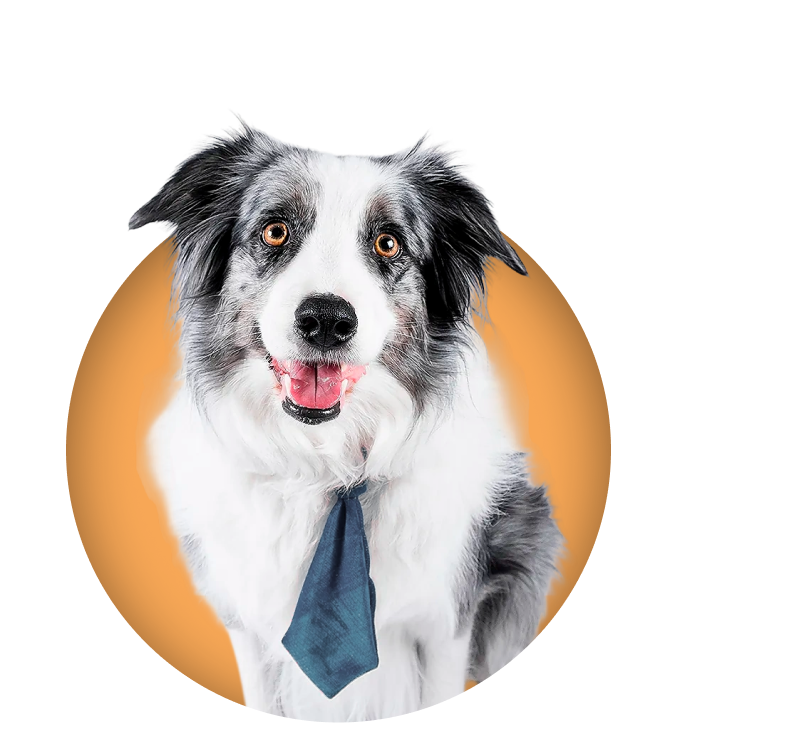
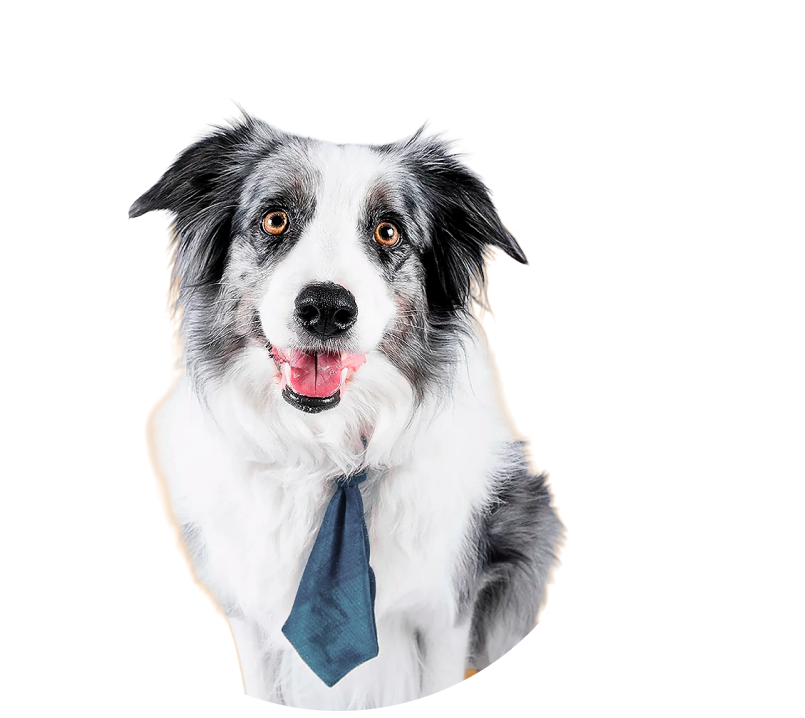
Ajustando masater y home

Changed region(s): [[0.0621, 0.1532, 0.7764, 0.9805], [0.3727, 0.7354, 0.4037, 0.766]]

diff --git a/src/components/Home/Home.css b/src/components/Home/Home.css
@@ -81,8 +81,8 @@
 /* Lowering the shadow */
 }
 .col2 {
-    width: 927px;
-    height: 580px;
+    width: 813px;
+    height: 670px;
     position: relative;
     display: flex;
     justify-content: center;
@@ -90,29 +90,35 @@
     overflow: hidden;
 }
 .background {
-    width: 480px;
-    height: 470px;
+    width: 460px;
+    height: 467px;
     background-color: #CF8433;
-    border-radius: 100%; /* Establecemos el punto de transformación en la esquina superior izquierda */
+    opacity:initial;
+    border-radius: 100%;
     transform-origin: center;
     transition: transform 0.5s; /* Agregamos una transición para animar el efecto */
+    box-shadow: -1px 12px 21px 3px rgba(0,0,0,0.36);
+-webkit-box-shadow: -1px 12px 21px 3px rgba(0,0,0,0.36);
+-moz-box-shadow: -1px 12px 21px 3px rgba(0,0,0,0.36);
 }
 
 .imgPerro{
 
-    width: 580px;
+    width: 520px;
     height: 600px;
     object-fit: cover; /* Ajusta el tamaño de la imagen para que cubra el contenedor */
     position: absolute;
-  top: 40%; /* Alineamos verticalmente en el centro del contenedor */
-  left: 57%; /* Alineamos horizontalmente en el centro del contenedor */
-  transform: translate(-50%, -50%); /* Centramos la imagen en el contenedor */
+    top: 42%; 
+    left: 57%; 
+    transform: translate(-50%, -50%); /*Centramos la imagen en el contenedor */
+    transition: transform 0.5s ease;
 
 }
 
 .col2:hover .background {
-    transform: scale(1.2); /* Escalamos el fondo en un 20% al hacer hover */
-  }
+    transform: scale(1.2) translateY(-40px);; /* Escalamos el fondo en un 20% al hacer hover */
+}
+
 .sec2Cont {
     width: 1620px;
     height: 411px;
